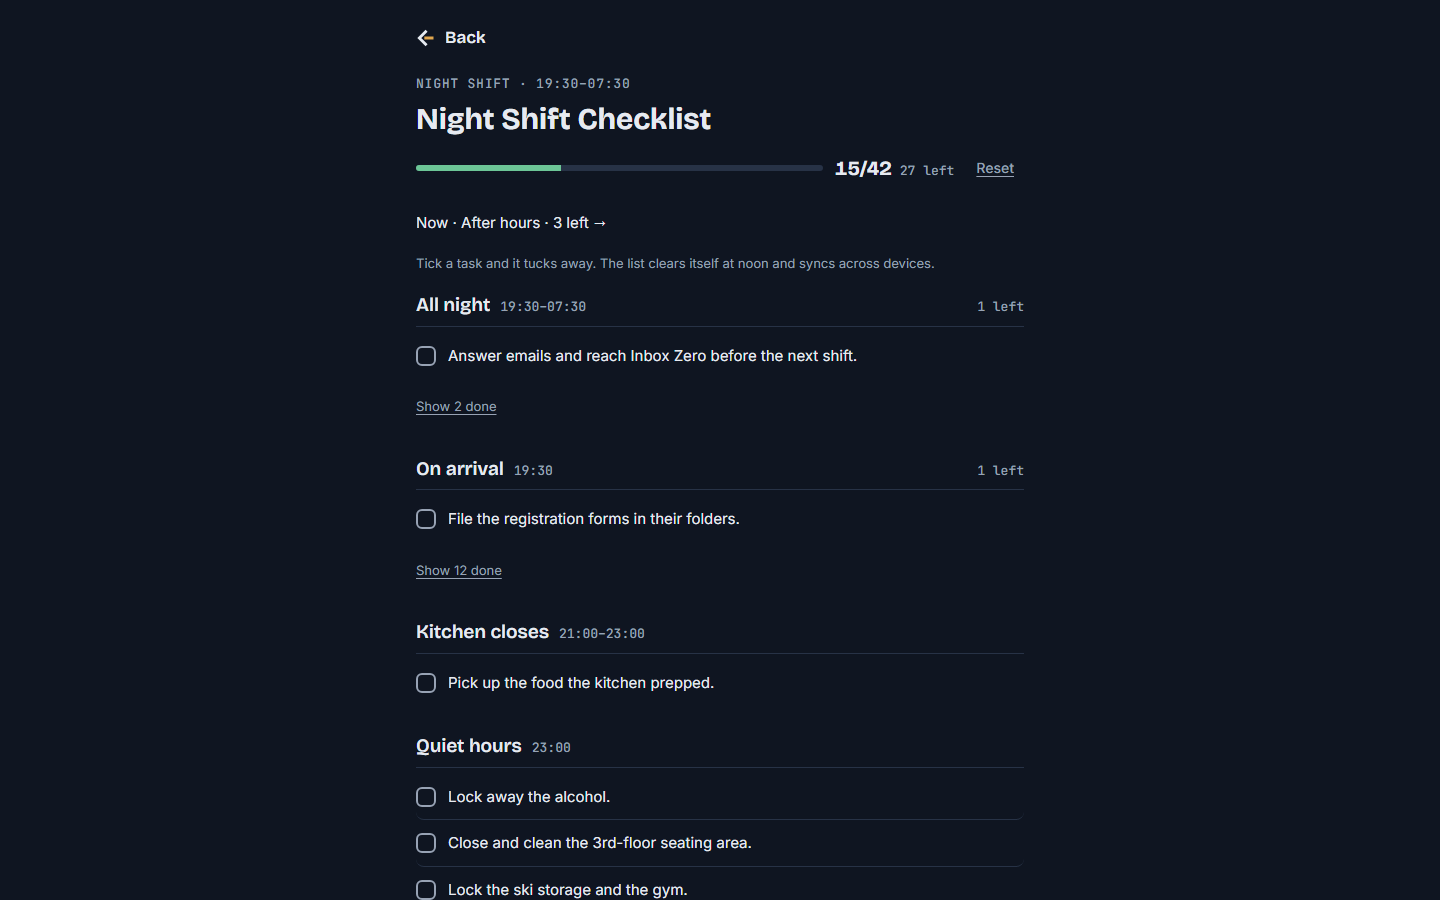
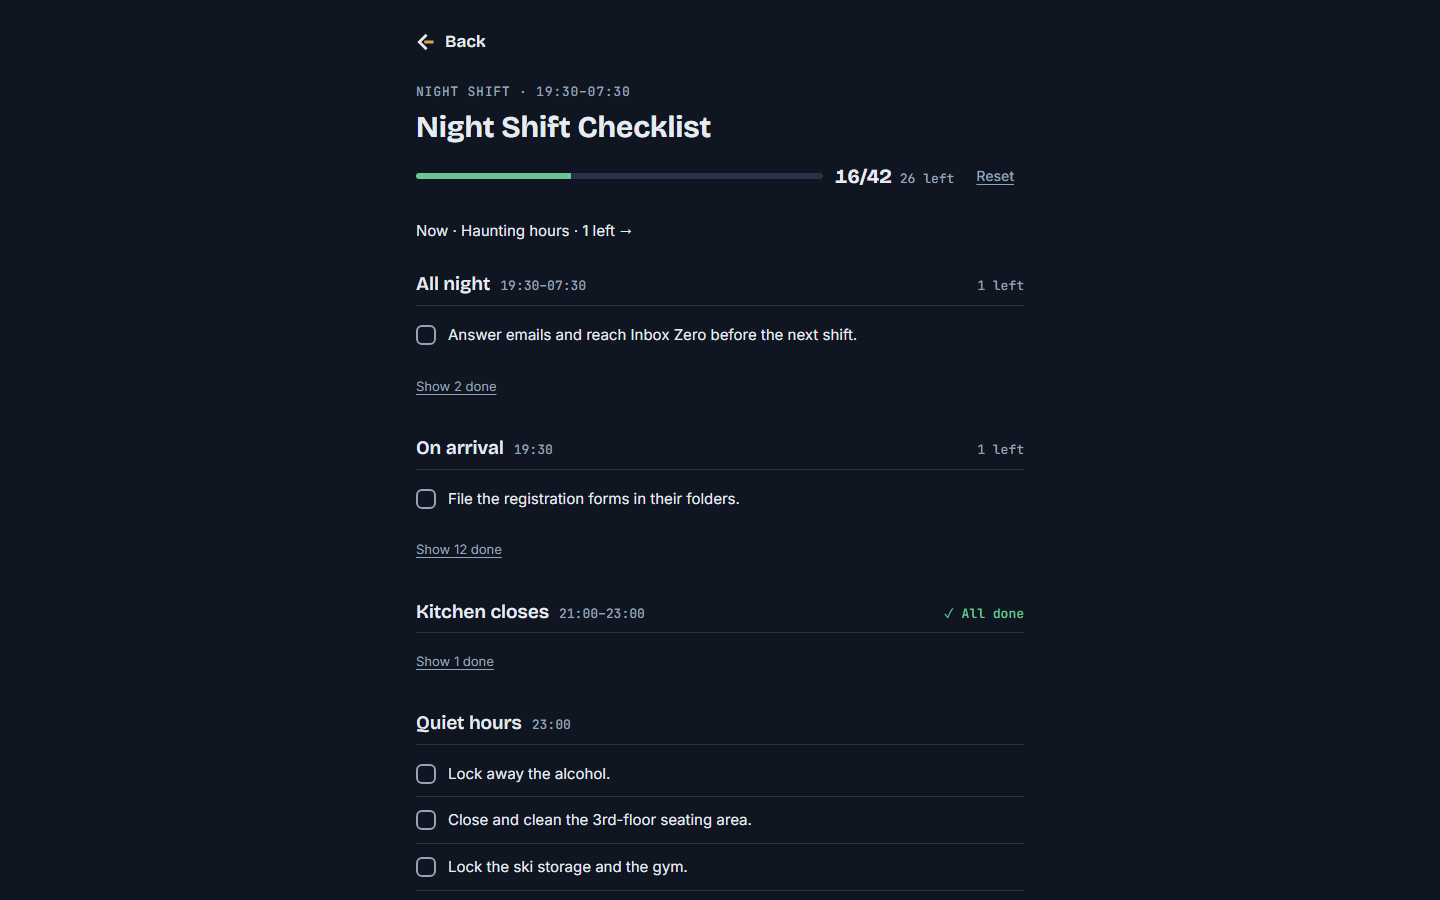
Checklist verify fixes: 44px done rows, jump spacing, Reset align
Verify of ui-refine-checklist passed on all tasks. Follow-ups:
- Done rows are at least 44px tall.
- Jumping to the Now section leaves space above its heading.
- Line the Reset text up with the left edge when it wraps to its own line.
- Underline the Now link so it reads as a link.
- Count pills are 13px, matching the text-size rule.
Keep the orange offline warning and the solid armed-Reset state as
deliberate exceptions, recorded in tasks.md for confirmation. Add the
after screenshots.

diff --git a/checklist/index.html b/checklist/index.html
@@ -30,18 +30,18 @@ h1{font-family:var(--f-display);font-weight:700;font-size:30px;line-height:1.1;m
 .count{font-family:var(--f-display);font-size:20px;font-weight:600;color:var(--fg);font-variant-numeric:tabular-nums;white-space:nowrap}
 .count span{font-family:var(--f-mono);font-size:13px;font-weight:400;color:var(--muted);margin-left:8px}
 button{font:inherit;cursor:pointer;border-radius:8px}
-.reset{border:0;background:none;color:var(--muted);min-height:44px;padding:0 10px;font-size:14px;font-weight:500;text-decoration:underline;text-underline-offset:3px}
+.reset{border:0;background:none;color:var(--muted);min-height:44px;margin-left:-10px;padding:0 10px;font-size:14px;font-weight:500;text-decoration:underline;text-underline-offset:3px}
 .reset.armed{background:var(--accent);border-color:var(--accent);color:var(--on-accent)}
 .reset:hover{color:var(--fg)}
 .reset:focus-visible,.item:focus-visible,.undo:focus-visible,.toggle:focus-visible{outline:2px solid var(--accent);outline-offset:2px}
 .note{font-size:13px;color:var(--muted);margin:0}
-section{display:flex;flex-direction:column;gap:6px}
+section{display:flex;flex-direction:column;gap:6px;scroll-margin-top:16px}
 main{display:flex;flex-direction:column;gap:26px}
 .sec-head{display:flex;align-items:baseline;gap:10px;padding-bottom:7px;border-bottom:1px solid var(--line);flex-wrap:wrap}
 .time{font-family:var(--f-mono);font-size:13px;color:var(--muted);font-variant-numeric:tabular-nums;order:2}
 h2{font-family:var(--f-display);font-weight:600;font-size:19px;margin:0;min-width:0}
 .left{font-family:var(--f-mono);font-size:13px;color:var(--muted);font-variant-numeric:tabular-nums;order:3;margin-left:auto}
-.pill{font-family:var(--f-mono);font-size:12px;letter-spacing:.05em;text-transform:uppercase;padding:2px 8px;border-radius:99px}
+.pill{font-family:var(--f-mono);font-size:13px;letter-spacing:.05em;text-transform:uppercase;padding:2px 8px;border-radius:99px}
 .pill.now{background:var(--accent);color:var(--on-accent)}
 .pill.clear{font-family:var(--f-mono);font-size:13px;text-transform:none;letter-spacing:0;color:var(--done);padding:0;order:3;margin-left:auto}
 section.is-now .sec-head{border-bottom:2px solid var(--accent)}
@@ -57,7 +57,7 @@ section.is-now .sec-head{border-bottom:2px solid var(--accent)}
 .toggle{display:inline-flex;align-items:center;min-height:44px;align-self:flex-start;background:none;border:0;color:var(--muted);font-size:13px;padding:0;text-decoration:underline;text-underline-offset:3px}
 .toggle:hover{color:var(--fg)}
 .donelist{display:flex;flex-direction:column;gap:2px;list-style:none;margin:0;padding:0}
-.undo{display:flex;gap:10px;align-items:center;width:100%;text-align:left;background:none;border:0;color:var(--muted);padding:6px 12px;font-size:14px}
+.undo{display:flex;gap:10px;align-items:center;width:100%;text-align:left;background:none;border:0;color:var(--muted);min-height:44px;padding:10px 12px;font-size:14px}
 .undo .tx{text-decoration:line-through}
 .undo .chk{color:var(--done);font-weight:600}
 .undo:hover .tx{color:var(--fg)}
@@ -65,7 +65,7 @@ section.is-now .sec-head{border-bottom:2px solid var(--accent)}
 .donehint{margin:0 0 4px;font-size:13px;color:var(--muted)}
 .back{margin-bottom:0}
 [hidden]{display:none!important}
-.nowlink{display:flex;align-items:center;min-height:44px;font-size:15px;color:var(--fg);text-decoration:none;gap:8px}
+.nowlink{display:flex;align-items:center;min-height:44px;font-size:15px;color:var(--fg);text-decoration:underline;text-underline-offset:4px;gap:8px}
 .nowlink:hover{color:var(--accent)}
 @media (display-mode: standalone){.back{display:none}}
 </style>

diff --git a/docs/ui-reviews/ui-refine-checklist/tasks.md b/docs/ui-reviews/ui-refine-checklist/tasks.md
@@ -45,6 +45,16 @@
 
 - 行の高さの不揃い（F10）と、パソコンでの中央寄せ（F12）は変えない
 
+## 11. 検証で出た修正
+
+- [x] 11.1 完了済みの行を 44px 以上にする（`.undo`）
+- [x] 11.2 「Now」で移動したとき、見出しが画面の上端に貼り付かないよう `scroll-margin-top:16px` を付ける
+- [x] 11.3 スマホで Reset が単独行になったとき、文字の左端を他の内容に合わせる（`margin-left:-10px`）
+- [x] 11.4 「Now · … →」に下線を付け、リンクだと分かるようにする
+- [x] 11.5 `.pill` を 13px にする（方針の補助テキスト 13px に合わせる）
+- [ ] 11.6 （ユーザーが確認）オフライン時の警告はアクセント色のまま（判断: 同期が止まっていることを目立たせるため）。方針の例外として扱うか決める
+- [ ] 11.7 （ユーザーが確認）Reset を押した後の確認状態は、アクセント色の塗りのまま（判断: 誤操作を防ぐ確認のため）。方針の例外として扱うか決める
+
 ## 12. 確認
 
 - [ ] 12.1 （ユーザーが実行）`/checklist/` を 390×844、360×740、1440×900 で開き、項目のタップ、「Show N done」の開閉、Reset の二段階、オフラインの表示を確認する
